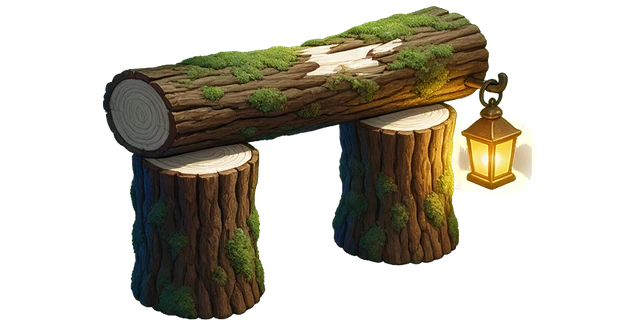
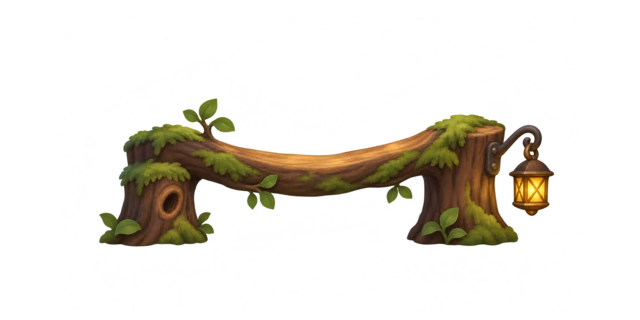
OP-404: the new painted art in the game: quiz pictures, Party Grove, owl perches
- 85 quiz pictures (quiz-<key>.png, 96 and 192 px): every answer card draws its picture.
- Party Grove screens (hub-west, hub, hub-east, hub-fg) replace today's files under the same keys;
  2x screens re-encoded at WebP q80-84 to stay inside the art budget.
- The four owl perches replace today's under the same keys; stand.json, kitCatalog.ts and
  sprites.json re-measured so each stands on its feet.

The ink Commons pieces wait for OP-402's room.

diff --git a/packages/shared/src/kitCatalog.ts b/packages/shared/src/kitCatalog.ts
@@ -423,7 +423,7 @@ export const KIT_CATALOG: Readonly<Record<string, KitCatalogEntry>> = {
   'kit-clearing-log-shortcut': { w: 400, h: 200, kind: 'piece', top: 55, foot: 200, left: 9, right: 392 },
   'kit-clearing-bough-perch': { w: 320, h: 120, kind: 'piece', top: 47, foot: 120, left: 23, right: 297 },
   'kit-clearing-gust-leaves': { w: 240, h: 320, kind: 'piece', top: 143, foot: 320, left: 7, right: 222 },
-  'kit-clearing-checkpoint-bench': { w: 320, h: 160, kind: 'piece', top: 19, foot: 160, left: 51, right: 266 },
+  'kit-clearing-checkpoint-bench': { w: 320, h: 160, kind: 'piece', top: 71, foot: 123, left: 50, right: 277 },
   'kit-clearing-hut-door-closed': { w: 240, h: 320, kind: 'piece', top: 93, foot: 320, left: 5, right: 235 },
   'kit-clearing-hut-door-open': { w: 240, h: 320, kind: 'piece', top: 142, foot: 320, left: 5, right: 236 },
   'kit-clearing-deck-rail': { w: 400, h: 120, kind: 'piece', top: 19, foot: 120, left: 107, right: 294 },
@@ -432,7 +432,7 @@ export const KIT_CATALOG: Readonly<Record<string, KitCatalogEntry>> = {
   'kit-neon-neon-tube-hazard': { w: 80, h: 240, kind: 'piece', top: 98, foot: 240, left: 1, right: 79 },
   'kit-neon-rooftop-door-closed': { w: 240, h: 320, kind: 'piece', top: 86, foot: 320, left: 10, right: 229 },
   'kit-neon-rooftop-door-open': { w: 240, h: 320, kind: 'piece', top: 83, foot: 320, left: 11, right: 228 },
-  'kit-neon-checkpoint-bench': { w: 320, h: 160, kind: 'piece', top: 46, foot: 160, left: 40, right: 284 },
+  'kit-neon-checkpoint-bench': { w: 320, h: 160, kind: 'piece', top: 95, foot: 148, left: 35, right: 286 },
   'kit-neon-cable-span': { w: 400, h: 80, kind: 'piece', top: 31, foot: 80, left: 97, right: 303 },
   'kit-neon-rooftop-garden': { w: 320, h: 160, kind: 'piece', top: 58, foot: 160, left: 9, right: 312 },
   'kit-neon-tank-ladder': { w: 120, h: 400, kind: 'piece', top: 105, foot: 400, left: 2, right: 118 },
@@ -449,7 +449,7 @@ export const KIT_CATALOG: Readonly<Record<string, KitCatalogEntry>> = {
   'kit-glass-cloud-ledge': { w: 320, h: 120, kind: 'piece', top: 12, foot: 112, left: 7, right: 307 },
   'kit-glass-door-pane-closed': { w: 240, h: 320, kind: 'piece', top: 34, foot: 315, left: 13, right: 225 },
   'kit-glass-door-pane-open': { w: 240, h: 320, kind: 'piece', top: 33, foot: 315, left: 13, right: 225 },
-  'kit-glass-checkpoint-bench': { w: 320, h: 160, kind: 'piece', top: 62, foot: 159, left: 46, right: 272 },
+  'kit-glass-checkpoint-bench': { w: 320, h: 160, kind: 'piece', top: 75, foot: 132, left: 45, right: 275 },
   'kit-glass-thorn-ceiling': { w: 400, h: 120, kind: 'piece', top: 14, foot: 116, left: 68, right: 328 },
   'kit-glass-act-arch': { w: 320, h: 400, kind: 'piece', top: 44, foot: 390, left: 30, right: 295 },
   'kit-glass-strand-rail': { w: 120, h: 400, kind: 'piece', top: 133, foot: 395, left: 16, right: 99 },
@@ -461,7 +461,7 @@ export const KIT_CATALOG: Readonly<Record<string, KitCatalogEntry>> = {
   'kit-ink-waterfall-curtain': { w: 240, h: 400, kind: 'piece', top: 11, foot: 398, left: 30, right: 211 },
   'kit-ink-door-paper-closed': { w: 240, h: 320, kind: 'piece', top: 140, foot: 320, left: 5, right: 236 },
   'kit-ink-door-paper-open': { w: 240, h: 320, kind: 'piece', top: 143, foot: 320, left: 5, right: 235 },
-  'kit-ink-checkpoint-bench': { w: 320, h: 160, kind: 'piece', top: 120, foot: 160, left: 61, right: 254 },
+  'kit-ink-checkpoint-bench': { w: 320, h: 160, kind: 'piece', top: 97, foot: 151, left: 40, right: 278 },
   'kit-ink-lotus-pads': { w: 320, h: 120, kind: 'piece', top: 58, foot: 117, left: 14, right: 305 },
   'kit-ink-crane-perch': { w: 120, h: 400, kind: 'piece', top: 120, foot: 399, left: 3, right: 117 },
   'kit-ink-pond-edge': { w: 400, h: 120, kind: 'piece', top: 40, foot: 117, left: 72, right: 329 },
@@ -777,8 +777,8 @@ export const KIT_CATALOG: Readonly<Record<string, KitCatalogEntry>> = {
   'kit-ink-knot-hole--ink-moon-gate': { w: 320, h: 320, kind: 'piece', top: 114, foot: 311, left: 6, right: 313, slot: 'knot-hole', standIn: 'kit-ink-moon-gate' },
   'kit-ink-knot-hole--ink-door-paper-open': { w: 240, h: 320, kind: 'piece', top: 143, foot: 320, left: 5, right: 235, slot: 'knot-hole', standIn: 'kit-ink-door-paper-open' },
   'kit-ink-knot-hole--ink-waterfall-curtain': { w: 240, h: 400, kind: 'piece', top: 11, foot: 398, left: 30, right: 211, slot: 'knot-hole', standIn: 'kit-ink-waterfall-curtain' },
-  'kit-ink-roost': { w: 320, h: 160, kind: 'piece', top: 120, foot: 160, left: 61, right: 254, slot: 'roost', standIn: 'kit-ink-checkpoint-bench' },
-  'kit-ink-roost--ink-checkpoint-bench': { w: 320, h: 160, kind: 'piece', top: 120, foot: 160, left: 61, right: 254, slot: 'roost', standIn: 'kit-ink-checkpoint-bench' },
+  'kit-ink-roost': { w: 320, h: 160, kind: 'piece', top: 97, foot: 151, left: 40, right: 278, slot: 'roost', standIn: 'kit-ink-checkpoint-bench' },
+  'kit-ink-roost--ink-checkpoint-bench': { w: 320, h: 160, kind: 'piece', top: 97, foot: 151, left: 40, right: 278, slot: 'roost', standIn: 'kit-ink-checkpoint-bench' },
   'kit-ink-lost-feather': { w: 80, h: 120, kind: 'piece', top: 12, foot: 120, left: 15, right: 64, slot: 'lost-feather', standIn: 'kit-ink-feather-lost' },
   'kit-ink-lost-feather--ink-feather-lost': { w: 80, h: 120, kind: 'piece', top: 12, foot: 120, left: 15, right: 64, slot: 'lost-feather', standIn: 'kit-ink-feather-lost' },
   'kit-ink-hazard': { w: 320, h: 120, kind: 'piece', top: 0, foot: 120, left: 0, right: 320, slot: 'hazard' },
@@ -861,8 +861,8 @@ export const KIT_CATALOG: Readonly<Record<string, KitCatalogEntry>> = {
   'kit-clearing-knot-hole--clearing-hut-door-open': { w: 240, h: 320, kind: 'piece', top: 142, foot: 320, left: 5, right: 236, slot: 'knot-hole', standIn: 'kit-clearing-hut-door-open' },
   'kit-clearing-knot-hole--clearing-vine-curtain': { w: 240, h: 320, kind: 'piece', top: 117, foot: 319, left: 5, right: 235, slot: 'knot-hole', standIn: 'kit-clearing-vine-curtain' },
   'kit-clearing-knot-hole--landmark-hut-lookout': { w: 400, h: 400, kind: 'piece', top: 22, foot: 400, left: 8, right: 392, slot: 'knot-hole', standIn: 'kit-landmark-hut-lookout' },
-  'kit-clearing-roost': { w: 320, h: 160, kind: 'piece', top: 19, foot: 160, left: 51, right: 266, slot: 'roost', standIn: 'kit-clearing-checkpoint-bench' },
-  'kit-clearing-roost--clearing-checkpoint-bench': { w: 320, h: 160, kind: 'piece', top: 19, foot: 160, left: 51, right: 266, slot: 'roost', standIn: 'kit-clearing-checkpoint-bench' },
+  'kit-clearing-roost': { w: 320, h: 160, kind: 'piece', top: 71, foot: 123, left: 50, right: 277, slot: 'roost', standIn: 'kit-clearing-checkpoint-bench' },
+  'kit-clearing-roost--clearing-checkpoint-bench': { w: 320, h: 160, kind: 'piece', top: 71, foot: 123, left: 50, right: 277, slot: 'roost', standIn: 'kit-clearing-checkpoint-bench' },
   'kit-clearing-lost-feather': { w: 80, h: 120, kind: 'piece', top: 9, foot: 120, left: 17, right: 63, slot: 'lost-feather', standIn: 'kit-clearing-feather-lost' },
   'kit-clearing-lost-feather--clearing-feather-lost': { w: 80, h: 120, kind: 'piece', top: 9, foot: 120, left: 17, right: 63, slot: 'lost-feather', standIn: 'kit-clearing-feather-lost' },
   'kit-clearing-hazard': { w: 320, h: 160, kind: 'piece', top: 24, foot: 160, left: 42, right: 278, slot: 'hazard', standIn: 'kit-clearing-bramble-patch' },
@@ -928,8 +928,8 @@ export const KIT_CATALOG: Readonly<Record<string, KitCatalogEntry>> = {
   'kit-neon-mid--neon-mid-c': { w: 800, h: 450, kind: 'layer', slot: 'mid', standIn: 'kit-neon-mid-c' },
   'kit-neon-knot-hole': { w: 240, h: 320, kind: 'piece', top: 83, foot: 320, left: 11, right: 228, slot: 'knot-hole', standIn: 'kit-neon-rooftop-door-open' },
   'kit-neon-knot-hole--neon-rooftop-door-open': { w: 240, h: 320, kind: 'piece', top: 83, foot: 320, left: 11, right: 228, slot: 'knot-hole', standIn: 'kit-neon-rooftop-door-open' },
-  'kit-neon-roost': { w: 320, h: 160, kind: 'piece', top: 46, foot: 160, left: 40, right: 284, slot: 'roost', standIn: 'kit-neon-checkpoint-bench' },
-  'kit-neon-roost--neon-checkpoint-bench': { w: 320, h: 160, kind: 'piece', top: 46, foot: 160, left: 40, right: 284, slot: 'roost', standIn: 'kit-neon-checkpoint-bench' },
+  'kit-neon-roost': { w: 320, h: 160, kind: 'piece', top: 95, foot: 148, left: 35, right: 286, slot: 'roost', standIn: 'kit-neon-checkpoint-bench' },
+  'kit-neon-roost--neon-checkpoint-bench': { w: 320, h: 160, kind: 'piece', top: 95, foot: 148, left: 35, right: 286, slot: 'roost', standIn: 'kit-neon-checkpoint-bench' },
   'kit-neon-lost-feather': { w: 80, h: 120, kind: 'piece', top: 44, foot: 118, left: 21, right: 59, slot: 'lost-feather', standIn: 'kit-neon-feather-lost' },
   'kit-neon-lost-feather--neon-feather-lost': { w: 80, h: 120, kind: 'piece', top: 44, foot: 118, left: 21, right: 59, slot: 'lost-feather', standIn: 'kit-neon-feather-lost' },
   'kit-neon-hazard': { w: 80, h: 240, kind: 'piece', top: 98, foot: 240, left: 1, right: 79, slot: 'hazard', standIn: 'kit-neon-neon-tube-hazard' },

diff --git a/apps/park/src/ui/whichOwl.ts b/apps/park/src/ui/whichOwl.ts
@@ -11,15 +11,15 @@
  *
  * Nothing typed, no names, no score shown, no back button. The answers are kept nowhere: only the
  * result goes on, as the look. The words, picture slots and points are in
- * packages/shared/src/whichOwlBank.ts. Until an artist paints the answers' pictures (OP-326,
- * docs/QUIZ-ART.md) a visitor sees each answer as a card of words (OP-365): the slot, a box with its
- * painted size on it, shows only on a painter's or a keeper's tab (showsArtBoxes), where the box
- * tells the artist what to make.
+ * packages/shared/src/whichOwlBank.ts. Each answer draws its painted picture (OP-404, quizPicture);
+ * a card with an answer still unpainted shows words alone (OP-365), and the slot, a box with its
+ * painted size on it, shows only on a painter's or a keeper's tab (showsArtBoxes).
  *
  * TODO-DOCS (OP-365): docs/QUIZ-ART.md says the game draws the dashed box for every visitor; it
  * draws it with `?paint=1` or `?keeper=1` in the address, and word cards otherwise.
  */
 import { COLOUR_SETS, QUIZ_ART_SIZE, WHICH_OWL_WORDS as W, drawCards, getSpecies, natureDef, natureOf, quizLook, type ColourSetId, type Nature, type OwlLook, type QuizAnswer, type QuizCard } from '@owl-park/shared';
+import { PUBLISHED_ART, versioned } from '../game/publishedArt';
 import { createModal } from './modal';
 import type { PreviewFrame } from './owlBuilder';
 
@@ -32,6 +32,19 @@ import type { PreviewFrame } from './owlBuilder';
 export function showsArtBoxes(search: string): boolean {
   const q = new URLSearchParams(search);
   return q.get('paint') === '1' || q.get('keeper') === '1';
+}
+
+/**
+ * An answer's painted picture as the build ships it (OP-404): `quiz-<art key>.webp` or `.png` in
+ * public/art, with its `@2x` copy for a dense screen, or null while it has none.
+ */
+export function quizPicture(pic: string, published: ReadonlyMap<string, string> = PUBLISHED_ART): { src: string; srcset: string } | null {
+  const base = `${import.meta.env.BASE_URL.replace(/\/?$/, '/')}art/`;
+  const at = (name: string) => `${base}${published === PUBLISHED_ART ? versioned(name) : encodeURIComponent(name)}`;
+  const one = ['webp', 'png'].map((ext) => `quiz-${pic}.${ext}`).find((n) => published.has(n));
+  if (!one) return null;
+  const two = ['webp', 'png'].map((ext) => `quiz-${pic}@2x.${ext}`).find((n) => published.has(n));
+  return { src: at(one), srcset: two ? `${at(one)} 1x, ${at(two)} 2x` : '' };
 }
 
 /** How a run ended: the owl's new look, and which button took it on. */
@@ -88,6 +101,8 @@ const CSS = `
 /* The picture's place (OP-326), on a painter's or keeper's tab: a box with the size to paint it at, until the art comes. */
 #hud .which-owl .wo-pic{display:flex;align-items:center;justify-content:center;width:clamp(64px,12vh,${QUIZ_ART_SIZE}px);aspect-ratio:1;border:2px dashed rgba(246,241,227,.5);border-radius:12px;
   font-size:12px;font-weight:600;letter-spacing:.02em;color:rgba(246,241,227,.75);background:rgba(246,241,227,.05)}
+/* A painted picture (OP-404) in the box's place: the same size, no dashes. */
+#hud .which-owl img.wo-pic.wo-painted{display:block;border:0;padding:0;background:none;object-fit:contain}
 #hud .which-owl .wo-feather{width:clamp(48px,10vh,76px);height:clamp(48px,10vh,76px)}
 /* The owl is the reveal's centrepiece: it never gives up its room when the words run past a phone's
    screen (a flex child shrinks by default, which left a thumb-sized owl), and on a phone the owl
@@ -195,11 +210,21 @@ export function createWhichOwlScreen(root: HTMLElement): WhichOwlScreen {
     const q = say(card.ask);
     q.classList.add('wo-step');
     const picks = document.createElement('div');
-    picks.className = `wo-picks n${card.answers.length}${artBoxes ? '' : ' words'} wo-step`;
+    // A card shows pictures when every answer on it has one (a card half pictures, half words reads as broken).
+    const pics = card.answers.map((a) => quizPicture(a.pic));
+    const pictured = pics.length > 0 && pics.every((p) => p !== null);
+    picks.className = `wo-picks n${card.answers.length}${artBoxes || pictured ? '' : ' words'} wo-step`;
     picks.dataset['woCard'] = card.id;
     card.answers.forEach((a, n) => {
       const b = button('', 'wo-pick', { woAnswer: String(n) });
-      if (artBoxes) {
+      if (pictured) {
+        const { src, srcset } = pics[n]!;
+        const img = Object.assign(document.createElement('img'), { className: 'wo-pic wo-painted', src, alt: '', width: QUIZ_ART_SIZE, height: QUIZ_ART_SIZE, decoding: 'async' });
+        if (srcset) img.srcset = srcset;
+        img.setAttribute('aria-hidden', 'true');
+        img.dataset['woArt'] = a.pic;
+        b.append(img);
+      } else if (artBoxes) {
         // For the artist: the art key names the picture, and the box says the size to paint it at.
         const pic = Object.assign(document.createElement('span'), { className: 'wo-pic', textContent: `${QUIZ_ART_SIZE} × ${QUIZ_ART_SIZE}` });
         pic.setAttribute('aria-hidden', 'true');

diff --git a/apps/park/src/ui/whichOwl.test.ts b/apps/park/src/ui/whichOwl.test.ts
@@ -1,5 +1,5 @@
 import { describe, expect, it } from 'vitest';
-import { showsArtBoxes } from './whichOwl';
+import { quizPicture, showsArtBoxes } from './whichOwl';
 
 describe('the quiz\'s picture boxes (OP-365)', () => {
   it('show on a painter\'s or a keeper\'s tab, where they tell the artist what to paint', () => {
@@ -14,5 +14,16 @@ describe('the quiz\'s picture boxes (OP-365)', () => {
     expect(showsArtBoxes('?paint=0')).toBe(false);
     expect(showsArtBoxes('?paint=yes&keeper=true')).toBe(false);
     expect(showsArtBoxes('?boxes=1&sizes=1')).toBe(false);
+  });
+});
+
+describe('the quiz\'s painted pictures (OP-404)', () => {
+  it('are each answer\'s quiz-<key> file with its 2x copy, and none where the build ships no such file', () => {
+    const shipped = new Map([['quiz-moon.png', 'a'], ['quiz-moon@2x.png', 'b'], ['quiz-sun.webp', 'c']]);
+    const moon = quizPicture('moon', shipped)!;
+    expect(moon.src).toMatch(/\/art\/quiz-moon\.png$/);
+    expect(moon.srcset).toMatch(/quiz-moon\.png 1x, .*quiz-moon%402x\.png 2x$/);
+    expect(quizPicture('sun', shipped)).toEqual({ src: expect.stringMatching(/quiz-sun\.webp$/), srcset: '' });
+    expect(quizPicture('dawn', shipped)).toBeNull();
   });
 });

diff --git a/apps/park/src/game/artBudget.test.ts b/apps/park/src/game/artBudget.test.ts
@@ -13,9 +13,7 @@ const PNG_MAX_KB = 300;
 const WEBP_MAX_KB = 700;
 
 /** Over the PNG budget on purpose, each with why. */
-const OVER_BUDGET: Record<string, string> = {
-  'hub-fg@2x.png': "the hub's overlay at 2x: 256 colours already, which WebP does not beat, and only computers load it (phones take the 1x)",
-};
+const OVER_BUDGET: Record<string, string> = {};
 
 const kb = (f: string) => statSync(join(ART, f)).size / 1024;
 
